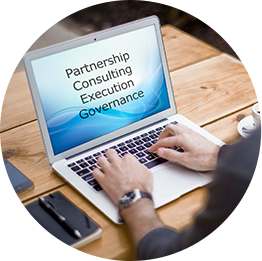
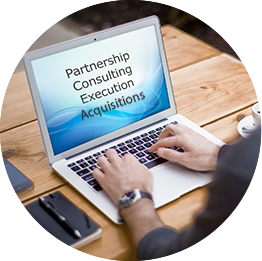
finishing touches, contact.

diff --git a/app/app.js b/app/app.js
@@ -301,11 +301,11 @@ var app = angular.module('kazamax', [
       'text.partnership': 'Partnership',
       'text.consulting': 'Consulting',
       'text.execution': 'Execution',
-      'text.governance': 'Governance',
+      'text.governance': 'Mergers & Acquisitions',
       'text.home-intro': 'We help companies <span class="blue">successfully</span> navigate the Brazilian market and achieve better results.',
       'text.opportunity': 'The 7th largest economy in the world, Brazil is a land of opportunities for many global players:',
       'text.challenge': 'Brazil can be a challenge for companies seeking to take advantage of the many opportunities the country provides.',
-      'text.services': 'Learn what Kazamax can do for you: Partnership, Consulting, Execution, Governance.',
+      'text.services': 'Learn what Kazamax can do for you: Partnership, Consulting, Execution, Acquisitions.',
       'text.advantages': 'Find out more about the experience we bring to the table.',
       'text.differentials': 'Kazamax is more than an advisor. Here\'s what makes us different.',
       'text.practices': 'Some of the things you might want to consider when starting a new company.',
@@ -406,21 +406,22 @@ var app = angular.module('kazamax', [
       '<div class="col-sm-6 col-lg-3">' +
       '<h3 class="service-title">Execution</h3>' +
       '<p>' +
-      'You are established in Brazil but face challenges with execution, results or support to local management. We can provide  execution support through:<br>' +
+      'You are established in Brazil but face challenges with execution, as for example lack of control, results below expectations or insufficient support to local management. We can provide execution support through:<br>' +
       '<ul>' +
-      '<li><strong>Workshops</strong>. Facilitate the development of business plans and execution plans in workshops.</li>' +
-      '<li><strong>Business Coaching</strong>. Assisting local management to perform better by providing continuous coaching and advice.</li>' +
-      '<li><strong>M&A</strong>. Assisting in acquisition, mergers and exits.</li>' +
+      '<li><strong>Business Coaching and Workshops</strong>. Assisting local management to perform better through Business Coaching, Workshops and by providing ongoing advice.</li>' +
+      '<li><strong>Governance as a Service</strong>. Assisting foreign based managers by providing local expertise, increase control, reduce risk, etc. in the local subsidiary.</li>' +
+      '<li><strong>Advisory Board</strong>. Acting as an Advisory Board Member, or setting up an Advisory Board, to get needed expertise, larger network and improved Governance.</li>' +
       '</ul>' +
       '</p>' +
       '</div>' +
       '<div class="col-sm-6 col-lg-3">' +
-      '<h3 class="service-title">Governance</h3>' +
+      '<h3 class="service-title">Mergers & Acquisitions</h3>' +
       '<p>' +
-      'You are already established in Brazil but feel the need to increase control, reduce risk and “be on top” of the business. We can provide support with:<br>' +
+      'You want to enter Brazil, or expand your local business, through an acquisition or a Joint Venture, or maybe you want to divest. We can support with:<br>' +
       '<ul>' +
-      '<li><strong>Governance as a Service</strong>. Assisting foreign based managers by providing local expertise, increase control, reduce risk, etc.in the local subsidiary.</li>' +
-      '<li><strong>Advisory Board</strong>. Acting as a Member or setting up an Advisory  Board to get needed expertise, larger network and improved Governance.</li>' +
+      '<li><strong>Search</strong>. Prepare search profile, identifying potential targets and advice on fit with your business objectives.</li>' +
+      '<li><strong>Negotiations</strong>. Contact target companies, prepare Letter of Intent, Valuation, manage negotiation process, coordinate Due Diligence and contract writing, as well as general advice throughout the process.</li>' +
+      '<li><strong>Post-acquisition</strong>. Develop and manage the post-acquisition plan, communication plan, etc., so that business results are achieved as quickly as possible.</li>' +
       '</ul>' +
       '</p>' +
       '</div>',
@@ -504,11 +505,11 @@ var app = angular.module('kazamax', [
     'text.partnership': 'Parcerias',
     'text.consulting': 'Consultoria',
     'text.execution': 'Execução',
-    'text.governance': 'Governança',
+    'text.governance': 'Fusões e Aquisições',
     'text.home-intro': 'Nós ajudamos empresas a navegar com <span class="blue">sucesso</span> o mercado brasileiro e alcançar melhores resultados.',
     'text.opportunity': 'Sendo a sétima economia do mundo, o Brasil é uma terra de oportunidades para muitos empreendedores globais.',
     'text.challenge': 'O Brasil pode ser um desafio para empresas que pretendem tirar proveito das muitas oportunidades que o país oferece.',
-    'text.services': 'Descubra o que a Kazamax pode fazer por você: Parcerias, Consultoria, Execução e Governança.',
+    'text.services': 'Descubra o que a Kazamax pode fazer por você: Parcerias, Consultoria, Execução e Aquisições.',
     'text.advantages': 'Saiba mais sobre a experiência que oferecemos.',
     'text.differentials': 'Kazamax é mais do que uma consultoria. Veja o que nos torna diferente.',
     'text.practices': 'Alguns pontos que você deve considerar ao começar uma nova empresa.',
@@ -609,21 +610,22 @@ var app = angular.module('kazamax', [
     '<div class="col-sm-6 col-lg-3">' +
     '<h3 class="service-title">Execução</h3>' +
     '<p>' +
-    'Você está estabelecido no Brasil, mas enfrenta desafios como execução, resultados ou suporte à gerencia local. Nós podemos providenciar suporte de execução através de:<br>' +
+    'Você já está no Brasil, mas enfrenta desafios com a execução, como por exemplo, falta de controle, resultados abaixo da expectativa, ou falta de suporte à gerencia local. Nós podemos providenciar suporte de execução através de:<br>' +
     '<ul>' +
-    '<li><strong><em>Workshops</em></strong>. Facilitar o desenvolvimento de planos de negócio e planos de execução em <em>workshops</em>.</li>' +
-    '<li><strong>Coaching de negócio</strong>. Ajudar a gerência local a ter melhores resultados providenciando Coaching e conselhos.</li>' +
-    '<li><strong>M&A</strong>. Ajudando em aquisições, fusões e vendas de empresas. </li>' +
+    '<li><strong>Coaching de negócio e <em>Workshops</em></strong>. Ajudar a gerência local a ter melhores resultados providenciando Coaching, <em>Workshops</em> e conselhos no dia-a-dia..</li>' +
+    '<li><strong>Governança como serviço</strong>. Ajudar os responsáveis estrangeiros com competência local, melhor controle, redução de riscos, na subsidiária local.</li>' +
+    '<li><strong>Conselho Administrativo</strong>. Agir como um Membro do Conselho Administrativo ou estabelecer um Conselho para obter a competência necessária, aumentar o <em>Network</em> e melhorar a Governança.</li>' +
     '</ul>' +
     '</p>' +
     '</div>' +
     '<div class="col-sm-6 col-lg-3">' +
-    '<h3 class="service-title">Governança</h3>' +
+    '<h3 class="service-title">Fusões e Aquisições</h3>' +
     '<p>' +
-    'Você já se estabeleceu no Brasil, mas acha que existe a necessidade de aumentar o controle, reduzir riscos e “estar a par” do negócio. Nós podemos ajudar com:<br>' +
+    'Você gostaria de estabelecer uma entidade no Brasil, ou expandir seu negocio atual, através de uma aquisição ou um Joint Venture, ou talvez queira vender seu negócio. Nós podemos ajudar com:<br>' +
     '<ul>' +
-    '<li><strong>Governânça como serviço</strong>. Ajudar os responsáveis estrangeiros com <em>expertise</em> local, aumento de controle, redução de riscos, etc. na subsidiária local.</li>' +
-    '<li><strong>Conselho Administrativo</strong>. Agir como um Membro ou estabelecer um Conselho para obter a <em>expertise</em> necessária, aumentar o <em>Network</em> e melhorar a Governança.</li>' +
+    '<li><strong>Busca</strong>. Preparar perfil de busca, identificar empresas potenciais e ajudar com recomendações sobre o alinhamento com seus objetivos de negocio. </li>' +
+    '<li><strong>Negociação</strong>. Contatar empresas escolhidas, preparar carta de intenção, <em>Valuation</em>, liderar o processo de negociação, coordenar <em>Due Diligence</em> e contratos, além de aconselhar durante o processo.</li>' +
+    '<li><strong>Após a aquisição</strong>. Desenvolver e administrar o plano de integração, plano de comunicação, etc., com a intensão de alcançar resultados de negocio o mais rápido possível. </li>' +
     '</ul>' +
     '</p>' +
     '</div>',

diff --git a/app/index.html b/app/index.html
@@ -27,6 +27,7 @@
     <script src="/bower_components/angular-bootstrap/ui-bootstrap.min.js"></script>
     <script src="/bower_components/angular-scroll/angular-scroll.min.js"></script>
     <script src="/app.js"></script>
+	
 </head>
 <body ng-controller="MainCtrl" ng-class="{ 'body-page-active': !$state.is('home') }">
 <header class="header" height-observer="setHeaderHeight">

diff --git a/app/contact-form.php b/app/contact-form.php
@@ -42,8 +42,8 @@ if (isset($_POST['inputName']) && isset($_POST['inputEmail']) && isset($_POST['i
     $data = array('success' => true, 'message' => 'contact.success');
     echo json_encode($data);
 
-} else {
+}
+else {
     $data = array('success' => false, 'message' => 'contact.fill-fields');
     echo json_encode($data);
-
 }
